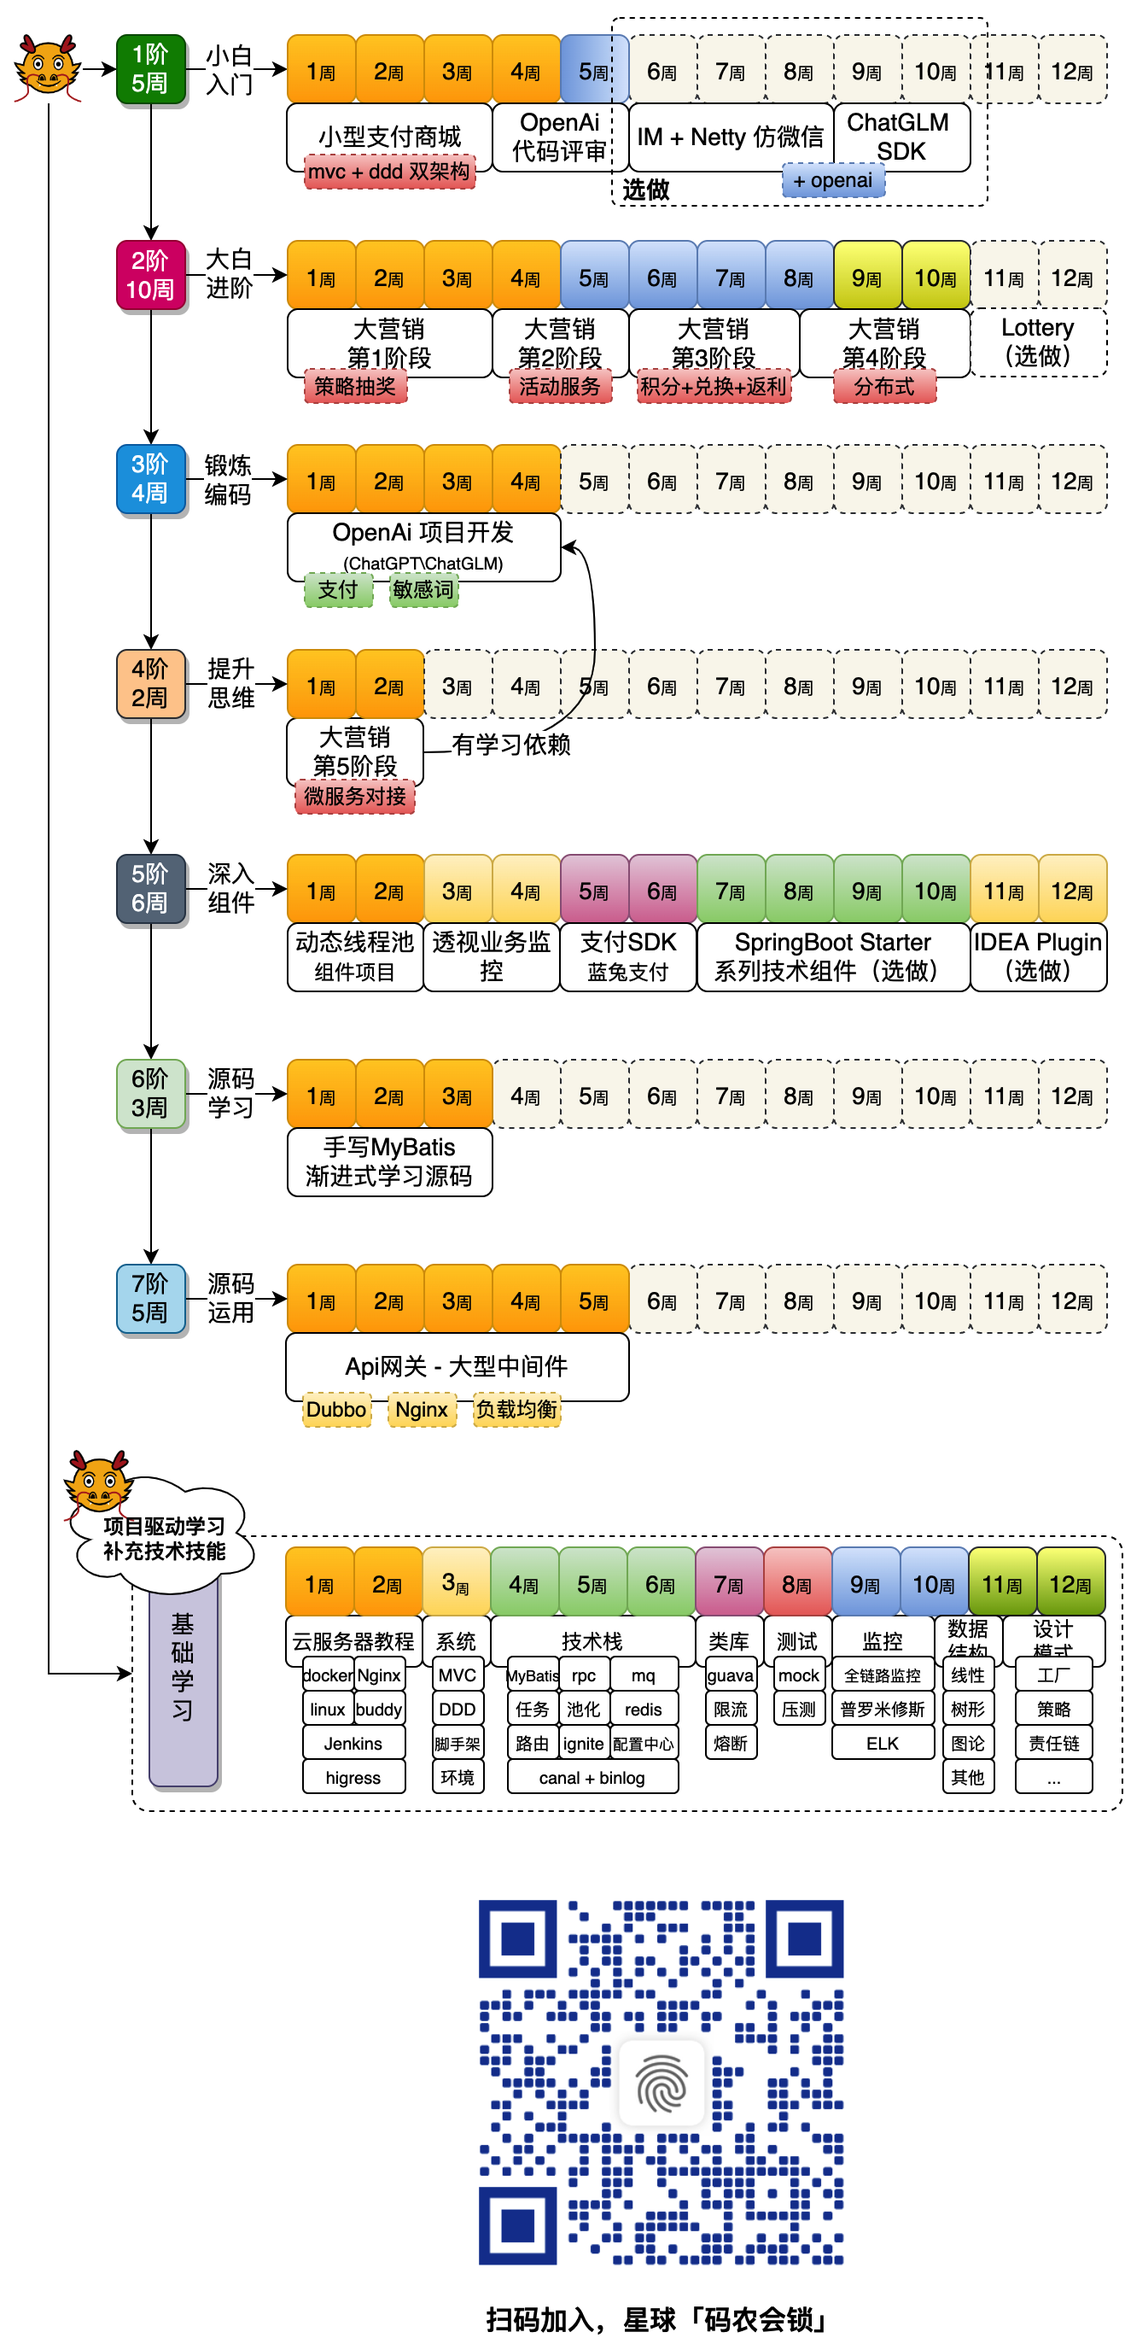
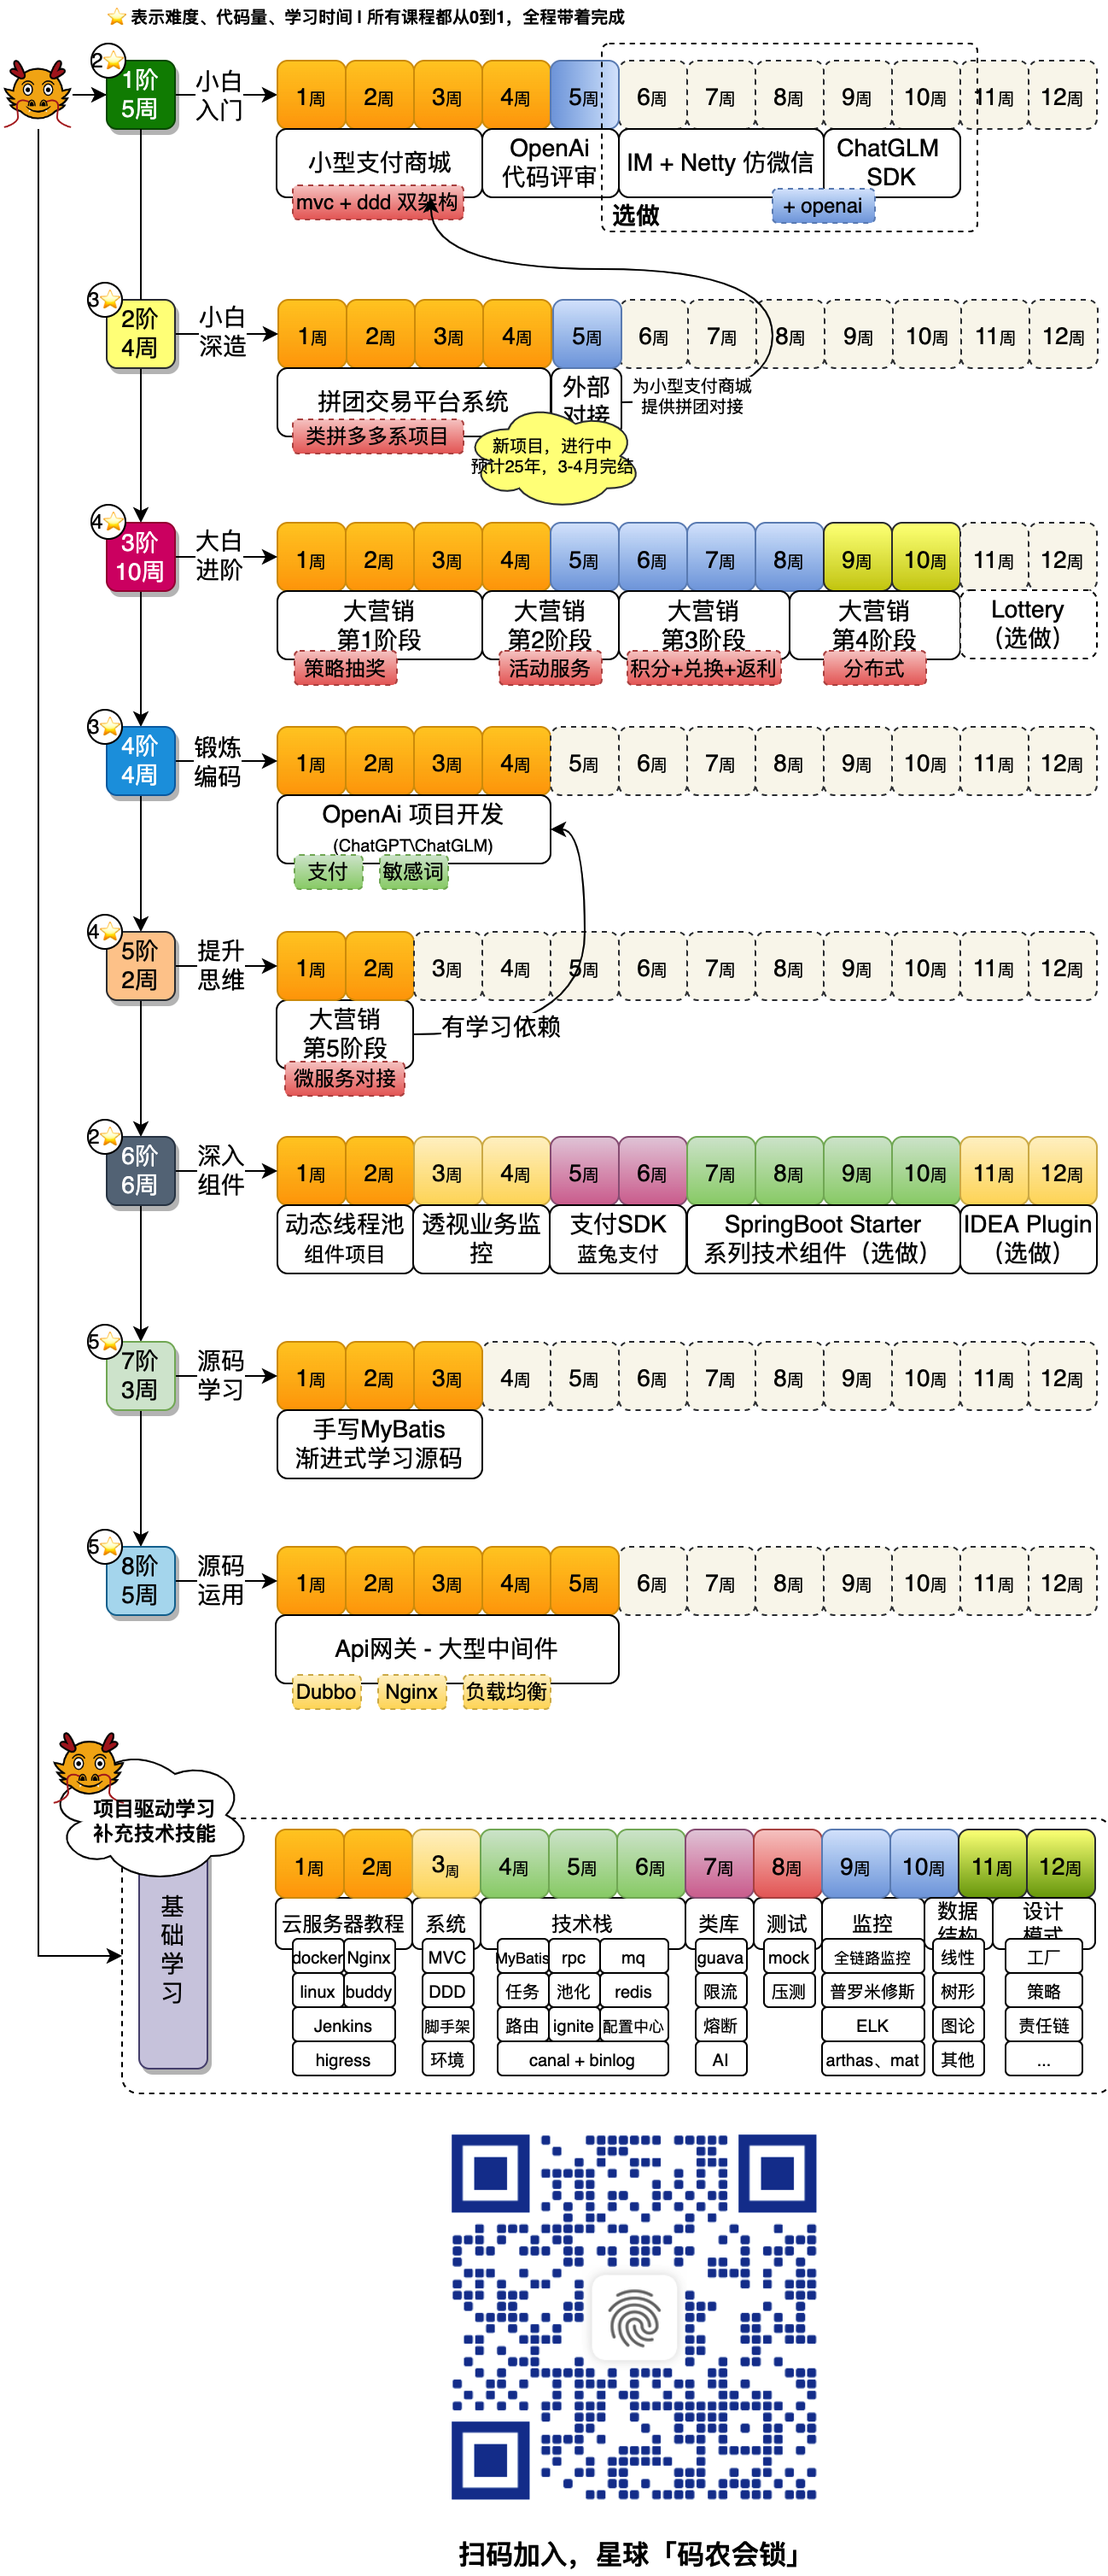
feat：《拼团交易平台系统》第2-5节：人群标签数据采集

diff --git a/docs/.vuepress/config.js b/docs/.vuepress/config.js
@@ -1805,6 +1805,7 @@ function getBarZSXQ() {
             collapsable: false,
             sidebarDepth: 0,
             children: [
+                "project/group-buy-market.md",
                 "project/s-pay-mall.md",
                 "project/big-market.md",
                 "project/chatgpt.md",

diff --git a/docs/md/zsxq/project/group-buy-market.md b/docs/md/zsxq/project/group-buy-market.md
@@ -1,0 +1,132 @@
+---
+title: 拼团支付平台系统
+lock: no
+---
+
+# 《拼团交易平台系统》- 为各类交易场景，提供拼团服务。
+
+作者：小傅哥
+<br/>博客：[https://bugstack.cn](https://bugstack.cn)
+<br/>课程：[https://t.zsxq.com/Yfbwo](https://t.zsxq.com/Yfbwo)
+
+> 沉淀、分享、成长，让自己和他人都能有所收获！😄
+
+大家好，我是技术UP主小傅哥。
+
+🌻 讲道理，为了提升能力冲击面试，不做点C端场景，不搞透业务流程，只是包个壳的小demo项目，真的进入面试官眼不了一点。面试官更喜欢的是他自己做过的真实的业务场景，这些东西都是非常成熟的业务和可上线使用的系统设计。所以，多做点这样的东西，才是提升能力的东西。
+
+<div align="center">
+    <img src="https://bugstack.cn/images/article/project/business-behavior-monitor/business-behavior-monitor-01.png" width="150px">
+</div>
+
+**那咱们做什么项目呢？🤔**
+
+在小傅哥的项目版图中，为大家提供了；`下单支付（支付宝、微信、蓝兔）`、`抽奖活动`、`积分兑换`、`行为返利`等，那么咱这次再做一个与支付相关的，中大厂都有的，互联网中必备的项目 **《拼团交易平台系统》** - 为各类交易场景，提供拼团服务。
+
+在你看到的`拼多多`、`京东`、`腾讯`，都有很多的拼团场景。因为拼团可以在，设置折扣低价的情况下，激励用户分享到自身的圈子范围，完成拉新一起成单，提高交易完成量。所以这是一个互联网中必备的营销类系统。
+
+<div align="center">
+    <img src="https://bugstack.cn/images/article/project/group-buy-market/group-buy-market-241109-01.png" width="750px">
+</div>
+
+跟着小傅哥（大厂架构师）学习，早些了解真正的真实业务项目，成为这个圈子里的技术佼佼者。横卷Offer！
+
+>🧧 文末提供了获取项目课程和代码。包括；已完结的6个业务项目、7个组件项目、以及各类基础教程。
+
+## 一、能学到啥
+
+小傅哥带着学习的项目，主打一个真实。全程从0到1，带着学习。直至完成开发再部署上线，并提供上线系统的域名配置、前端埋点、后端监控等一些列的真实实操技能。所以你能学习到的也是非常丰富的。
+
+- 【前端】熟练使用，HTML、Div、CSS、React、Typescript 等前端编程技术。
+- 【前端】掌握 fetch 方式对后端接口的调用，处理相关的逻辑数据。
+- 【后端】熟练搭建项目工程，学习工程分层结构概率和设计思路。掌握更多的六边形、洋葱、整洁架构。`提高简历技术亮点`
+- 【后端】熟练掌握 Spring、SpringBoot、MyBatis 等开发框架技术，并对框架源码所提供的扩展接口具备运用能力。
+- 【后端】熟练使用 SpringCloud 核心微服务分布式技术栈，包括：Fegin、Sentinel、Nacos、熔断、限流、降级等。`先做功能，后面逐步添加。`
+- 【后端】熟练使用大厂中常用的设计模式手段和设计原则技术，对各类场景的方案设计和落地能力，深度提高自身编码思维和开发技术能力。
+- 【后端】深度学习复杂场景的架构设计、编程思维，如果处理系统功能的边界和上下文的维护。—— 这些东西一定是从实践中才能学习到的。
+- 【后端】熟练使用 Mock 单测工具、JMeter 压测工具，增强代码交付质量。
+- 【后端】熟练掌握异常、枚举、错误码的定义和使用，并学习到如何合理打印服务日志，便于问题排查。
+- 【运维】熟练使用 Docker 在本地和服务端的配置和部署应用，以及在本地构建前后端镜像。
+- 【运维】熟练掌握 Git、GitCode，对工程代码的管理，推送、拉取、切换分支、合并代码等操作。
+- 【运维】熟练使用 Nginx 配置转发服务，并能申请ssl配置https服务。
+- 【运维】熟练使用 Grafana 监控系统，对系统的 JVM、磁盘、Tomcat、应用(QPS、响应时间、调用量)完整监控。
+
+此外，小傅哥会把系统开发过程中的思考、设计、编码，录制⏺成完整的**全程手把手带着学习的视频**，让大家可以学习到的更多、更细、更深！
+
+> 学项目，就要学一些有深度的、流程完善的、而不是连业务流程都串不下来的项目。这样的小demo项目，面试的时候，也会很容易被面试官攻击。
+
+## 二、项目介绍
+
+本次项目是一个包含 `前后端 + Dev-Ops` 的全栈式综合编程实战项目，完成后会与小傅哥星球「码农会锁」的其他项目进行对接使用，以此学习真实的微服务对接。如；之前的`大营销 + OpenAI` 完成上线部署，体验地址：[https://openai.gaga.plus](https://openai.gaga.plus)
+
+C端场景项目的特点，就是感觉前端展示的很少，但后端往往要有一大的流程等着实现。如；你要认领任务，邀请用户、完成既定目标、驱动流程流转、结算结果或逆向结果。所以这也是面试中，面试官喜欢扣场景细节的部分。
+
+在我们完成`拼团`项目后，会在星球的小型支付单独一个分支进行验证，以及对接到 OpenAI 业务项目上。如图示意（后续会做更漂亮的UI）；
+
+<div align="center">
+    <img src="https://bugstack.cn/images/article/project/group-buy-market/group-buy-market-241109-03.png" width="550px">
+</div>
+
+>体验地址：[https://openai.gaga.plus](https://openai.gaga.plus)
+
+### 1. 产品流程 - 核心流程
+
+<div align="center">
+    <img src="https://bugstack.cn/images/article/project/group-buy-market/group-buy-market-241109-02.png" width="550px">
+</div>
+
+### 2. 功能流程 - UML
+
+如图这是一套拼团业务功能的研发设计流程图，涵盖了功能的流转细节。后续的功能实现会以这个为参考进行设计。
+
+<div align="center">
+    <img src="https://bugstack.cn/images/article/project/group-buy-market/group-buy-market-241109-04.png" width="550px">
+</div>
+
+> 很多的学习就是这样，要把细节夯实。不用贪多，但要求精。
+
+## 三、课程计划
+
+课程在`24年11月16日`开更，预计在30-40节课程。全程视频手把手带着做，即使是小白也能跟着学习下来。`实习/校招生也是小白，在公司也是直接快速进入项目理解和承接需求。`
+
+课程地址：[https://t.zsxq.com/Yfbwo](https://t.zsxq.com/Yfbwo)
+
+- 拼团支付营销平台介绍
+- 第1部分：系统设计
+  - 第1-1节：拼团需求分析
+  - 第1-2节：拼团库表设计（7~10张表）
+  - 第1-3节：研发系统设计（建模、架构）
+- 第2部分：服务实现
+  - 第2-1节：初始工程搭建
+  - 第2-2节：拼团活动实现
+  - 第2-3节：拼团规则设计 - 切量、黑白名单等、免拼、最低成团、次数限制、达成目标
+  - 第2-4节：折扣计算规则
+  - 第2-5节：人群标签设计 - 自动跑数据服务
+  - 第2-6节：拼团规则服务
+  - 第2-7节：参与拼团设计
+  - 第2-8节：拼团记账实现
+  - 第2-9节：拼团回调实现
+  - 第2-10节：拼团结果记录 - 接收外部拼单数据
+  - 第2-11节：拼团超时失败检测任务 - 退单流程
+  - 第2-12节：人群标签生成任务
+  - 第2-13节：外部接口设计
+  - 更多随课程揭晓 ...
+- 第3部分：外部对接
+  - 第3-1节：简易对接案例
+  - 第3-2节：对接小型支付，拼团下单
+  - 第3-3节：对接OpenAI大营销，拼团下单
+- 第4部分：开发运维
+  - 第4-1节：构建打包部署
+  - 第4-2节：HTTPS(ssl)、后端监控、前端监控
+
+>课程包括；视频、小册、1 对 1 答疑解惑、专属VIP项目交流群，并且提供简历编写模板结构的一条龙🐲服务。让你学习后，直接拉开与还在玩具项目其他人的差距，面试脱颖而出提高竞争力！！！
+
+## 四、加入学习
+
+跟着小傅哥学习，不会浪费时间，不会走小道弯路。全程做技术兜底，遇到的各种问题都能帮你解决。包括你学习时候的代码bug，可以把代码提交到星球，我来帮你调试。最终把兄弟们送到各个竞争赛道的头部，拿到最牛的薪资待遇 Offer！
+
+<div align="center">
+    <img src="https://bugstack.cn/images/article/project/group-buy-market/group-buy-market-241109-05.png" width="550px">
+</div>
+
+>🧧 [加入](https://bugstack.cn/md/zsxq/other/join.html) 每年招聘，都能帮助兄弟们规划好学习路线，卷出最好的 Offer！星球里还有500份评审过的简历记录，看过后，就知道怎么写好简历了。

diff --git a/docs/md/zsxq/memorabilia/sideline.md b/docs/md/zsxq/memorabilia/sideline.md
@@ -1,9 +1,9 @@
 ---
-title: 啊？小傅哥的副业，已经发展到了海外！
+title: 啊？小傅哥的技术"副业"，已经发展到了海外！
 lock: no
 ---
 
-# 啊？小傅哥的副业，已经发展到了海外！
+# 啊？小傅哥的技术"副业"，已经发展到了海外！
 
 作者：小傅哥
 <br/>博客：[https://bugstack.cn](https://bugstack.cn)

diff --git a/docs/md/project/group-buy-market/第2-5节：人群标签数据采集.md b/docs/md/project/group-buy-market/第2-5节：人群标签数据采集.md
@@ -1,5 +1,5 @@
 ---
-title: 第2-5节：人群标签数据采集
+title: 【更】第2-5节：人群标签数据采集
 pay: https://t.zsxq.com/ovDqo
 ---
 
